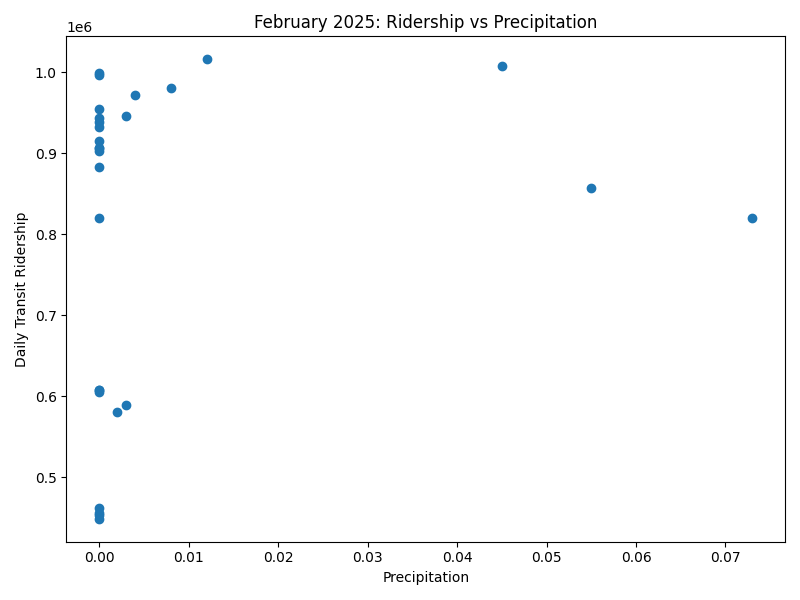
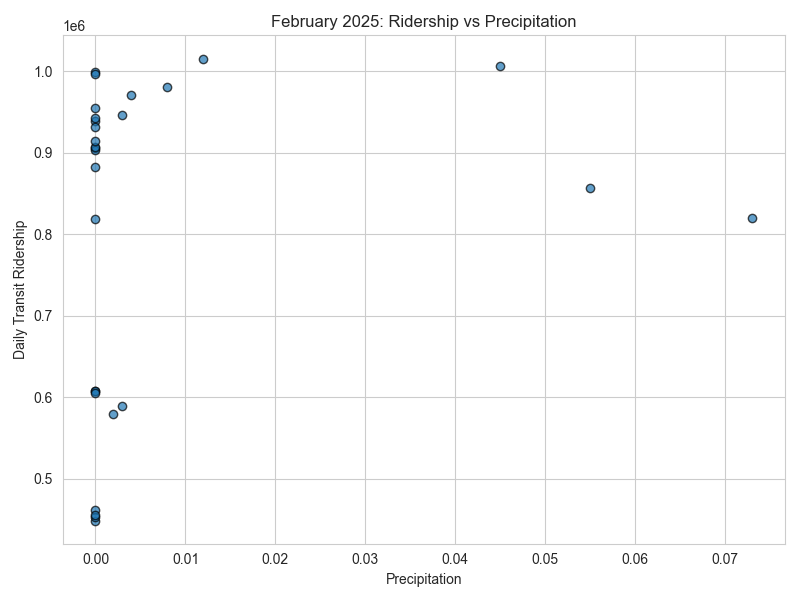
Improved vis, styling, and readability

diff --git a/src/transform_load.py b/src/transform_load.py
@@ -16,8 +16,11 @@ PART 2: Merge and transform the data
 from pathlib import Path
 
 import matplotlib.pyplot as plt
+import matplotlib.ticker as ticker
 import pandas as pd
 import seaborn as sns
+
+sns.set_style("whitegrid")
 
 
 DATA_DIR = Path("data")
@@ -82,6 +85,7 @@ def transform_and_load_data() -> pd.DataFrame:
         label="Transit Ridership",
     )
     ax1.set_xlabel("Date")
+    ax1.yaxis.set_major_formatter(ticker.StrMethodFormatter('{x:,.0f}'))
     ax1.set_ylabel("Daily Transit Ridership")
 
     ax2 = ax1.twinx()
@@ -105,7 +109,7 @@ def transform_and_load_data() -> pd.DataFrame:
     ]
 
     plt.figure(figsize=(8, 6))
-    plt.scatter(feb_2025["precip"], feb_2025["daily_ridership"])
+    plt.scatter(feb_2025["precip"], feb_2025["daily_ridership"], alpha=0.7, edgecolor="black")
     plt.xlabel("Precipitation")
     plt.ylabel("Daily Transit Ridership")
     plt.title("February 2025: Ridership vs Precipitation")
